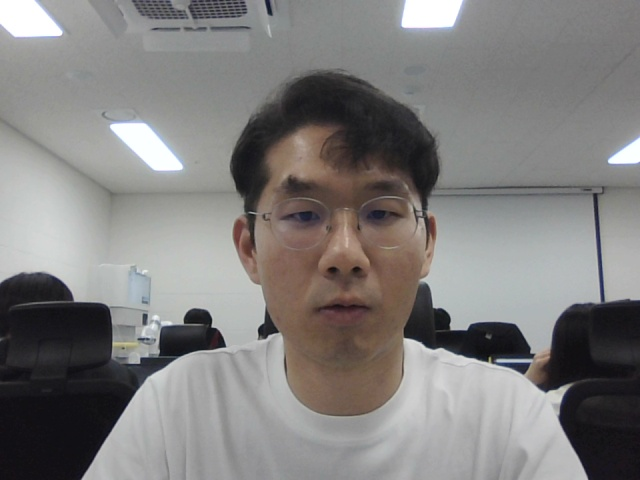
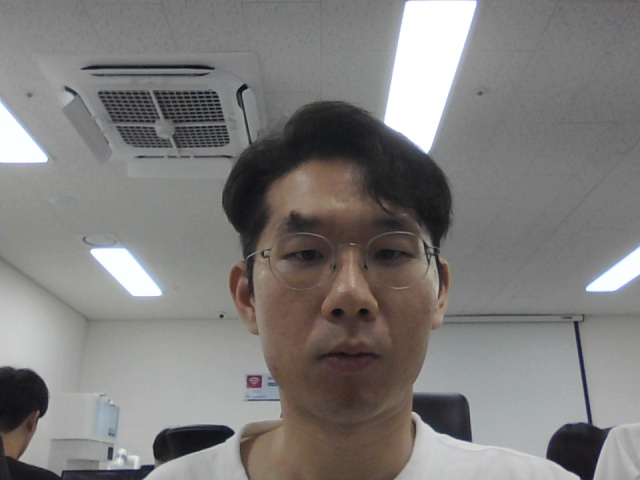
Add Seat Selection UI

diff --git a/projectcpy/project/main_window.py b/projectcpy/project/main_window.py
@@ -21,12 +21,20 @@ class MainWindow(QMainWindow):
 
         self.data = {"topping1" : 0, "topping2" : 0, "topping3" : 0, "gender" : "", "age" : 0}
         self.none_data = {"topping1" : 0, "topping2" : 0, "topping3" : 0, "gender" : "", "age" : 0}
+        self.custom_ui()
+
+
+    # 화면 구성 설정
+    def custom_ui(self):
+
+        # 메인 창 배경 백그라운드 설정
         self.movie = QMovie("ui/pic/aris_main.gif")
         self.label.setMovie(self.movie)
         self.movie.setScaledSize(self.label.size())
         self.movie.start()
 
-        self.setFixedSize(self.size())  # 현재 창 크기로 고정
+        # 현재 창 크기로 고정
+        self.setFixedSize(self.size())  
 
         # 화면 크기를 가져와 창의 중앙 위치를 계산
         screen_geometry = QApplication.desktop().screenGeometry()
@@ -34,8 +42,7 @@ class MainWindow(QMainWindow):
         y = (screen_geometry.height() - self.height()) // 2
         self.move(x, y)
 
-        # self.orderButton.setGeometry(350, 500, 200, 50)
-
+        # 주문 버튼 스타일 커스텀
         self.orderButton.setStyleSheet("""
             QPushButton {
                 background-color: rgb(251, 191, 196);
@@ -71,14 +78,11 @@ class MainWindow(QMainWindow):
         self.autoButton.clicked.connect(self.go_to_auto_order_window)
         self.update_purchase_count(db_config)
 
-
- 
-
     def go_to_login_window(self):
         if not hasattr(self, 'login_window'):
             self.login_window = LoginWindow(self)
             self.login_window.show()
-            self.close()  # 메인 윈도우를 숨깁니다.
+            self.close()  
 
     def go_to_auto_order_window(self):
         from auto_order import OrderManager
@@ -92,13 +96,13 @@ class MainWindow(QMainWindow):
             conn = pymysql.connect(**db_config)
             cursor = conn.cursor()
 
-
             # 실행할 SQL 쿼리문
             sql_query = """
                 UPDATE purchase_record_table
                 SET choco_count = 0, vanila_count = 0, strawberry_count = 0,
                     topping1_count = 0, topping2_count = 0, topping3_count = 0
                 """
+            
             # 쿼리 실행
             cursor.execute(sql_query)
             conn.commit()
@@ -149,7 +153,7 @@ class MainWindow(QMainWindow):
         self.data["age"] = age
 
     def closeEvent(self, event):
-        pass # 
+        pass 
 
 
 

diff --git a/projectcpy/project/kiosk_window.py b/projectcpy/project/kiosk_window.py
@@ -45,11 +45,12 @@ class KioskWindow(QDialog):
         # QFrame에 배경 이미지 설정
         ui_image_path = "ui/pic"
         image_path = os.path.join(ui_image_path, "login_background.png")
+        
         if os.path.exists(image_path):
             self.frame_2.setStyleSheet(f"QFrame {{background-image: url('{image_path}'); background-repeat: no-repeat; background-position: center;}}")
+        
         else:
             print(f"Error: Image file {image_path} does not exist.")
-
 
         # QPushButton 스타일 설정
         self.captureButton.setStyleSheet("""

diff --git a/projectcpy/project/login_window.py b/projectcpy/project/login_window.py
@@ -88,7 +88,6 @@ class LoginWindow(QMainWindow):
             }
         """)
 
-
     def update_frame(self):
         # 카메라에서 프레임을 가져와서 그래픽 뷰에 업데이트
         ret, frame = self.face.get_frame()
